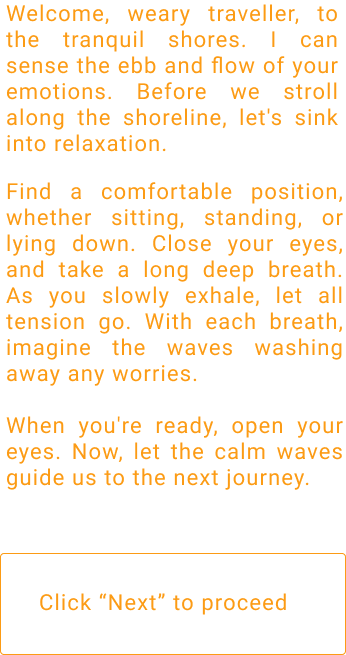
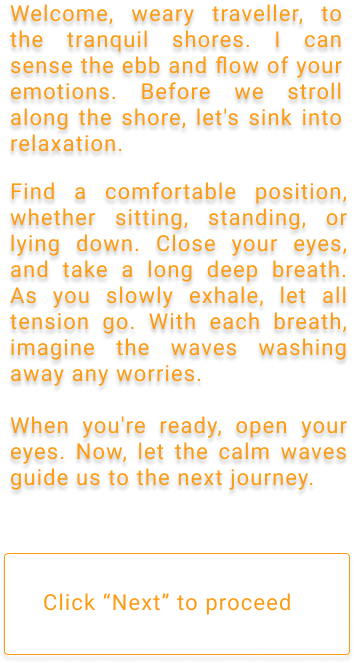
stupid mistake

diff --git a/main.js b/main.js
@@ -86,13 +86,13 @@ function preload() {
 
 function setup() {
 
-  img1 = loadImage('narrative/Group 2.png');
+  img1 = loadImage('narrative/Group 1.png');
   img2 = loadImage('narrative/mini.png');
   l1 = loadImage('narrative/l1.png');
   imgforest = loadImage('narrative/forest.png');
   imgfire = loadImage('narrative/fire.png');
   imgwin = loadImage('narrative/win.png');
-  imgfinal = loadImage('narrative/final.png');
+  imgfinal = loadImage('narrative/arrive.png');
   // originalWidth1 = img1.width;
   // originalHeight1 = img1.height;
   // originalWidth2 = img2.width; 
